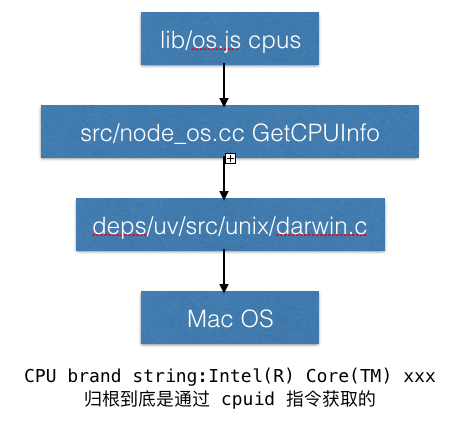
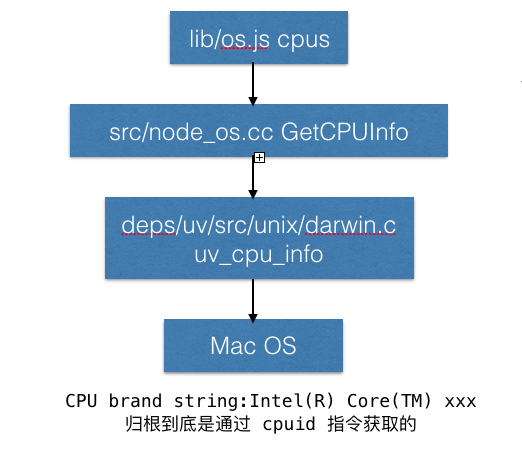
u

Changed region(s): [[0.0592, 0.0, 0.8879, 0.805], [0.0296, 0.8349, 0.8288, 0.9541], [0.8584, 0.8349, 0.9175, 0.8945]]

diff --git a/Nodejs 如何获取 CPU 信息.md b/Nodejs 如何获取 CPU 信息.md
@@ -1,6 +1,5 @@
 # Nodejs 如何获取 CPU 信息
 
-基于 Mac，环境如下：
 | 环境       |    版本 |
 | --------  | -------- |
 | Nodejs    | 12.16.1 |
@@ -10,7 +9,7 @@
 | CPU      | 2.7 GHz Intel Core i7 |
 | Xcode      | 9.4.1 |
 
-Nodejs 获取 CPU 信息十分简单，加载 os 模块后，调用其 cpus 方法就可获取 CPU 信息，代码如下：
+Nodejs 获取 CPU 信息十分简单，加载 os 模块后，调用其 cpus 方法即可，代码如下：
 
 ```JavaScript
 const os = require('os');
@@ -41,7 +40,7 @@ console.log(cpus)
 ]
 ```
 
-相关源码也很有层次性，从 JS -> C++ -> C -> 操作系统，下面逐层分析。
+相关源码也很有层次性，从 JS -> C++ -> C -> Mac OS，下面逐层分析。
 
 ## JS
 cpus 方法的源码位于 lib/os.js，粘贴如下：
@@ -77,7 +76,7 @@ module.exports = {
 };
 ```
 
-cpus 通过调用 getCPUs 得到 data 数组，里面存储的是 CPU 相关的信息，data 数组的长度就是 CPU 的核心数。JS 层只是简单包装了一下 C++ 层的 getCPUs。
+cpus 通过调用 getCPUs 得到 data 数组，data 数组里面存储的是 CPU 相关的信息，data 数组的长度就是 CPU 的核心数。JS 层的 cpus 只是简单包装了一下 C++ 层的 getCPUs。
 ## C++
 getCPUs 方法的源码位于 src/node_os.cc，粘贴如下：
 
@@ -88,12 +87,14 @@ static void GetCPUInfo(const FunctionCallbackInfo<Value>& args) {
 
   uv_cpu_info_t* cpu_infos;
   int count;
+  // GetCPUInfo 不生产 CPU 信息，
   // 本质还是调用 libuv 的 uv_cpu_info 获取 CPU 信息
   int err = uv_cpu_info(&cpu_infos, &count);
   if (err)
     return;
 
   // 代码运行到这里 cpu_infos 已经保存了 CPU 的信息，count 是核心数
+  // std::vector 类似 JavaScript 的数组
   std::vector<Local<Value>> result(count * 7);
   for (int i = 0, j = 0; i < count; i++) {
     uv_cpu_info_t* ci = cpu_infos + i;
@@ -109,7 +110,8 @@ static void GetCPUInfo(const FunctionCallbackInfo<Value>& args) {
 
   uv_free_cpu_info(cpu_infos, count);
   // Array::New 在 C++ 中创建一个 JavaScript 的 Array 对象
-  // Array::New(isolate, result.data(), result.size()) 就是 JS 层的 data
+  // Array::New(isolate, result.data(), result.size()) 
+  // 的结果就是 JS 层 cpus 的 data 变量
   // const data = getCPUs()
   args.GetReturnValue().Set(Array::New(isolate, result.data(), result.size()));
 }
@@ -123,15 +125,16 @@ void Initialize(Local<Object> target,
 }
 ```
 
-JS 层的 getCPUs 方法，实际调用的是 C++ 层的 GetCPUInfo 函数，GetCPUInfo 代码不多，仅仅是对 libuv 中 uv_cpu_info 的包装。由于 GetCPUInfo 要把返回结果传给 JS 层，所以要把相应的 C++ 语言的整数转换成 JavaScript 的 Number:
+JS 层的 getCPUs 方法，实际是 C++ 层的 GetCPUInfo 函数，GetCPUInfo 代码不多，仅仅是对 libuv 中 uv_cpu_info 的包装。由于 GetCPUInfo 要把返回结果传给 JS 层，所以要把 C++ 的整数转换成 JavaScript 的 Number:
 
 ```c++
 result[j++] = Number::New(isolate, ci->speed);
 ```
 
-还要把 C++ 语言的 std::vector 转换成 JavaScript 的 Array:
+还要把 C++ 的 std::vector 转换成 JavaScript 的 Array:
 
 ```c++
+std::vector<Local<Value>> result(count * 7);
 Array::New(isolate, result.data(), result.size());
 ```
 
@@ -150,27 +153,26 @@ class V8_EXPORT Array : public Object {
    */
   static Local<Array> New(Isolate* isolate, Local<Value>* elements,
                           size_t length);
-  V8_INLINE static Array* Cast(Value* obj);
 };
 ```
 
-JavaScript 与 C++ 函数的互相调用，C++ 的工作量要大一些。因为 C++ 是 JavaScript 的底层，只要研究足够深入，在 C++ 层面可以透澈看到 JavaScript 对象的一切，反之则不行。 JavaScript 调用 C++ 的方法，需要在 C++ 层面把返回值转成 JavaScript 语言的类型，Number::New 和 Array::New 做的就是这样的转换工作。
+JavaScript 与 C++ 函数的互相调用，C++ 层面的工作量要大一些。因为 C++ 是 JavaScript 的底层，只要研究足够深入，在 C++ 层面可以透澈看到 JavaScript 对象的一切，比如地址和内存布局，反之则不行。JavaScript 调用 C++ 的方法，需要在 C++ 层面把返回值转成 JavaScript 语言的类型，Number::New 和 Array::New 做的就是这样的类型转换工作。
 
-C++ 层的 GetCPUInfo 函数工作量并不多，只是包装了一下 libuv 的 uv_cpu_info。
+C++ 层的 GetCPUInfo 函数工作量并不多，只是包装了一下 libuv 的 uv_cpu_info，还要继续往下看。
 
 ## C
 
-进入了传说中的 libuv，笔者的电脑是 Mac，uv_cpu_info 真正运行的源码位于 deps/uv/src/unix/darwin.c，这部分代码是 C 语言，不是 C++，粘贴如下：
+进入了传说中的 libuv，笔者的电脑是 Mac，在 Mac 下 uv_cpu_info 真正运行的源码位于 deps/uv/src/unix/darwin.c，这部分代码是 C 语言，不是 C++，粘贴如下：
 
 ```c
 int uv_cpu_info(uv_cpu_info_t** cpu_infos, int* count) {
   unsigned int ticks = (unsigned int)sysconf(_SC_CLK_TCK),
                multiplier = ((uint64_t)1000L / ticks);
-  char model[512];
-  uint64_t cpuspeed;
+  char model[512]; // brand 字符串，本机是 Intel(R) Core(TM) i7-2620M CPU @ 2.70GHz
+  uint64_t cpuspeed; // cpu 频率
   size_t size;
   unsigned int i;
-  natural_t numcpus; // natural_t 是整数类型
+  natural_t numcpus; // CPU 核心数，natural_t 是整数类型
   mach_msg_type_number_t msg_type; // mach_msg_type_number_t 也是整数类型
   processor_cpu_load_info_data_t *info;
   uv_cpu_info_t* cpu_info; // 无缝衔接上节的 cpu_info
@@ -219,7 +221,7 @@ int uv_cpu_info(uv_cpu_info_t** cpu_infos, int* count) {
 }
 ```
 
-uv_cpu_info 源码较长，还有我们之前没有见过的函数和类型，它们都来自 Mac OS。对好学的前端来说，这些 API 都不具备深入学习的价值，所以笔者抽取相关代码整理了一个 demo，可直接在 Xcode 中运行，可自行体会。
+uv_cpu_info 源码较长，还有我们之前没有见过的函数和类型，它们都来自 Mac OS。对好学的前端来说，这些 API 都不具备深入学习的价值，所以笔者抽取相关代码整理了一个 demo，可直接在 Xcode 中运行，请自行体会。
 
 ```c
 #include <mach/mach.h>
@@ -263,7 +265,9 @@ int main(int argc, const char * argv[]) {
 
 ## Mac OS
 
-Mac 内核已开源，[darwin-xnu](https://github.com/apple/darwin-xnu)，但笔者下载后 make 就报错。笔者只看最简单的 sysctlbyname("machdep.cpu.brand_string", &model, &size, NULL, 0) 的源码。大概是 machdep.cpu.brand_string 会被解析，从树上找到相应的节点，从节点里找到一个函数，调用函数就得到了 cpu brand_string：Intel(R) Core(TM) i7-2620M CPU @ 2.70GHz。笔者不确定，不清楚，不知道。有一点可以确定，Intel(R) Core(TM) i7-2620M CPU @ 2.70GHz 这个字符串是通过 cpuid 指令获取的。
+Mac 内核已开源，或者部分开源，地址 [darwin-xnu](https://github.com/apple/darwin-xnu)，但笔者下载后 make 就报错。
+
+笔者只看了 sysctlbyname("machdep.cpu.brand_string", &model, &size, NULL, 0) 相关的源码。大概是 machdep.cpu.brand_string 会被解析，从树上找到相应的节点，从节点里找到一个函数，调用函数就得到了 cpu brand_string：Intel(R) Core(TM) i7-2620M CPU @ 2.70GHz。笔者是内核的小白，不太确定。但有一点可以确定，Intel(R) Core(TM) i7-2620M CPU @ 2.70GHz 这个字符串是通过 cpuid 指令获取的。
 
 ```c++
 从 https://github.com/apple/darwin-xnu/blob/master/bsd/dev/arm64/sysctl.c#L146 复制的
@@ -280,7 +284,7 @@ Mac 内核已开源，[darwin-xnu](https://github.com/apple/darwin-xnu)，但笔
 
 ## cpuid
 
-在 Intel 平台上获取 CPU 的信息，除了 cpuid，似乎没有别的办法，cpuid 是 x86 处理器的一条指令，可以获取 CPU 的信息，V8 有调用 cpuid 来判断当前 CPU 是否支持某些特定指令，[源码如下](https://chromium.googlesource.com/v8/v8.git/+/refs/tags/7.8.279.23/src/base/cpu.cc#358)：
+cpuid 是 x86 处理器的一条指令，可以获取 CPU 的信息，比如核心数、是否支持某些指令集、厂商等。V8 有调用 cpuid 来判断当前 CPU 是否支持某些特定指令，[源码如下](https://chromium.googlesource.com/v8/v8.git/+/refs/tags/7.8.279.23/src/base/cpu.cc#358)：
 
 ```c++
 __cpuid(cpu_info, 1); // __cpuid 是 V8 对 cpuid 指令的封装
@@ -300,14 +304,15 @@ has_avx_ = (cpu_info[2] & 0x10000000) != 0;
 has_fma3_ = (cpu_info[2] & 0x00001000) != 0;
 ```
 
-比如 has_fpu_ 表示是否有浮点数运算处理器，浮点数运算不精确和它有关系，has_sse 开头的几个变量和 SIMD 有关，JavaScript 的 SIMD 归根到底还是要编译成 CPU 的 SIMD 指令，纯靠软件是做不到单条指令多个数据的(Single Instruction Multiple Data)。
+比如 has_fpu_ 表示是否有浮点数运算处理器，浮点数运算不精确和它有关系，has_sse 开头的几个变量和 SIMD 有关，JavaScript 的 SIMD 归根到底还是要编译成 CPU 的 SIMD 指令，纯靠软件做不到单条指令多个数据(Single Instruction Multiple Data)。软件是串行执行的，优化到极限也改变不了串行执行的特点，想要并行，要靠硬件。
 
-高级语言的赋值编译成汇编语言的 mov，高级语言的分支编译成汇编语言的条件跳转，似乎高级语言并没有和 cpuid 相对应的语法。V8 的 __cpuid 函数使用内联汇编封装了下 cpuid 指令，[源码如下](https://chromium.googlesource.com/v8/v8.git/+/refs/tags/7.8.279.23/src/base/cpu.cc#55)：
+高级语言的赋值编译成汇编语言的 mov，高级语言的分支编译成汇编语言的条件跳转，似乎高级语言并没有和 cpuid 相对应的语法。V8 的 __cpuid 函数使用内联汇编封装了 cpuid 指令，[源码如下](https://chromium.googlesource.com/v8/v8.git/+/refs/tags/7.8.279.23/src/base/cpu.cc#55)：
 
 ```c++
 static V8_INLINE void __cpuid(int cpu_info[4], int info_type) {
 // Clear ecx to align with __cpuid() of MSVC:
 // https://msdn.microsoft.com/en-us/library/hskdteyh.aspx
+// 宏定义搭配内联汇编，不要在意细节，把内联汇编当普通汇编看就好
 #if defined(__i386__) && defined(__pic__)
   // Make sure to preserve ebx, which contains the pointer
   // to the GOT in case we're generating PIC.
@@ -327,7 +332,7 @@ static V8_INLINE void __cpuid(int cpu_info[4], int info_type) {
 }
 ```
 
-笔者对 V8 中 cpuid 相关的代码稍作整理，并参考 Intel 软件手册，写了一个例子，获取 CPU 的 brand string，可直接在 Xcode 中运行。
+大多数前端看到上面的代码应该是比较吃力的。笔者对 V8 中 cpuid 相关的代码稍作整理，并参考 Intel 软件手册，写了一个例子，获取 CPU 的 brand string，可直接在 Xcode 中运行。
 
 ![brandString](https://raw.githubusercontent.com/xudale/blog/master/assets/brandString.png)
 
@@ -365,7 +370,7 @@ int main(int argc, const char * argv[]) {
 
 [深入 Nodejs 源码探究 CPU 信息的获取与利用率计算](https://zhuanlan.zhihu.com/p/126334155)
 
-因为深入 Nodejs 源码探究 CPU 信息的获取与利用率计算写的很好，本文在相似内容上没有多费笔墨，感兴趣的同学可[移驾](https://zhuanlan.zhihu.com/p/126334155)
+因为第 2 篇文章写的很好，本文在相似内容上没有多费笔墨，感兴趣的同学可[移驾](https://zhuanlan.zhihu.com/p/126334155)
 
 
 
